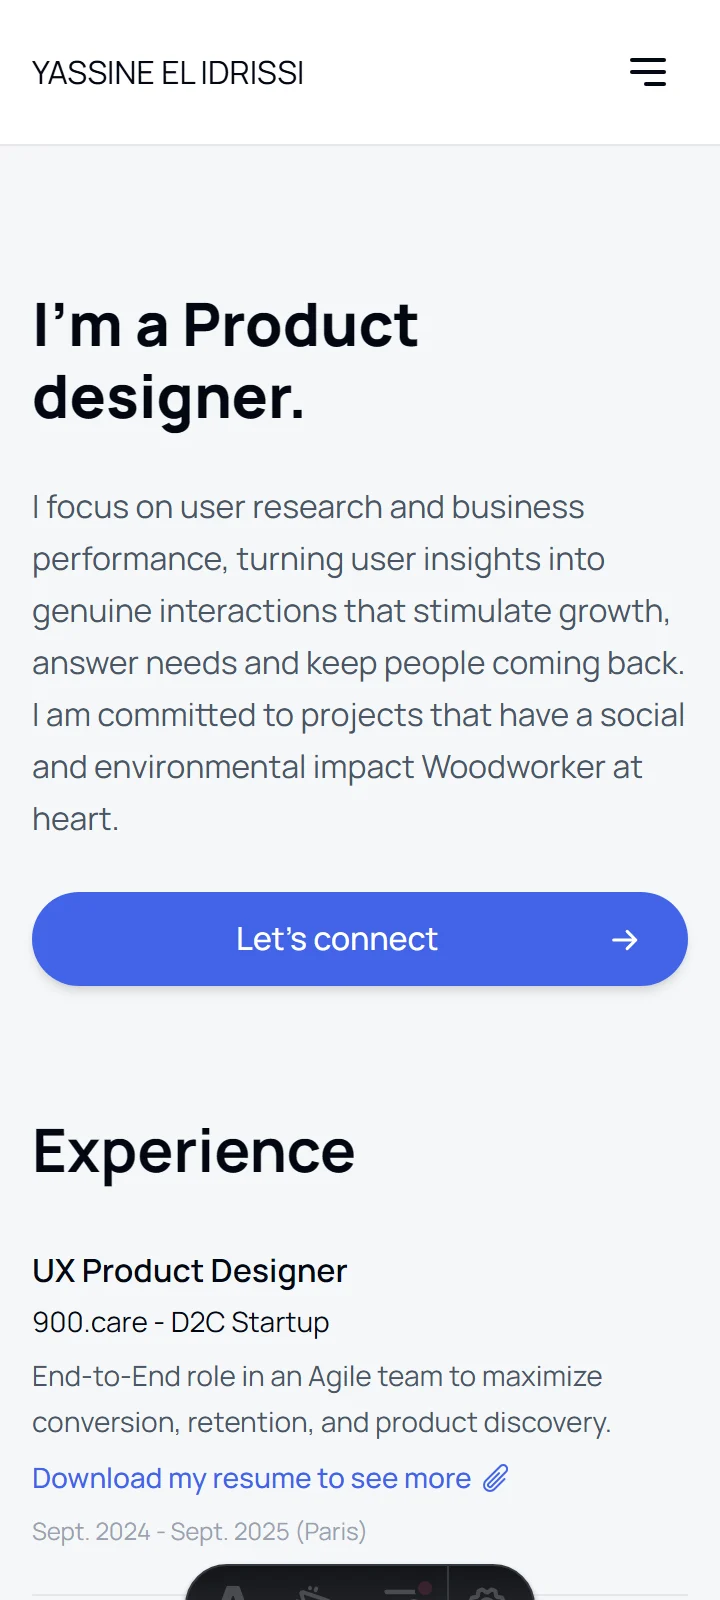
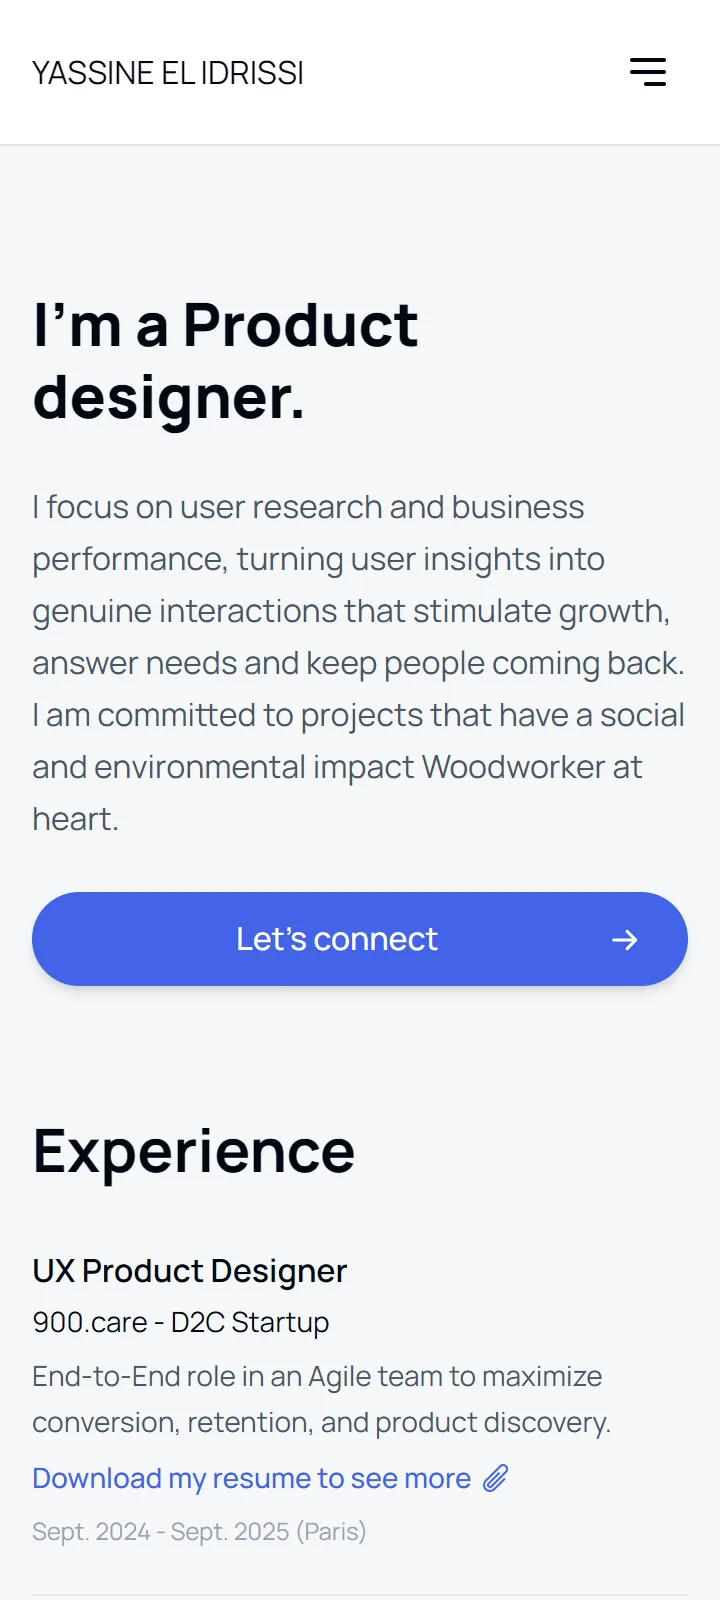
Workflow: captures du site en ligne dans la section hi-fi, captures FR et EN sur desktop, tablette et telephone

Changed region(s): [[0.2444, 0.9688, 0.7333, 1.0]]

diff --git a/docs/handoffs/retouches-design.md b/docs/handoffs/retouches-design.md
@@ -142,3 +142,76 @@ clé devenue inutilisée est retirée.
   (rail, projecteur) et le flou du UI kit au centre du projecteur » peut passer en revue :
   le pied du projecteur a été mesuré en 390 px, le bug qui effaçait le UI kit est corrigé,
   le reste de la galerie est inchangé.
+
+## Session 2 (2026-11-12) : icônes d'onglets, respiration des galeries, captures du site
+
+### Icônes des onglets projet (arrondi)
+
+- `src/styles/tokens.js` : nouveau pas de rayon `lg: "8px"` entre `md` (6 px) et `xl` (12 px).
+- `tailwind.config.mjs` : ce pas est mappé (`lg: tokens.primitives.borderRadius.lg`), donc
+  `rounded-lg` devient un token. Valeur identique au défaut Tailwind déjà utilisé ailleurs
+  (`Navbar.astro`, `AboutLayout.astro`) : aucun changement visuel sur ces usages.
+- `src/components/workflow/ToolLogo.astro` : la tuile d'onglet projet (`fill`, utilisée
+  seulement par `WorkflowProjectTabs`) passe de 6 px à 8 px (`rounded-md` → `rounded-lg`).
+  Les tuiles d'outils (listes, teaser) restent à 6 px : seule la tuile projet change.
+  Tuile mesurée à 24 × 24 px, rayon calculé 8 px sur les trois onglets, EN et FR.
+
+### Respiration autour des galeries d'écrans
+
+Le bloc garde son `gap-lg` (24 px). C'est le rembourrage interne des galeries qui créait le
+vide, surtout au-dessus et en dessous des écrans.
+
+- `WorkflowGallery.astro`, galerie `rail` (wireframes)
+  - `padding-block` : 24 / 32 px (mobile) et 24 / 48 px (desktop) → **8 / 24 px** partout.
+    Le pas de 24 px au-dessus venait de l'ancien sous-titre « Screens », supprimé à la
+    session précédente ; l'écart sous le titre de bloc est maintenant le `gap-lg` seul.
+  - Canevas (`wg-mat`) : bas ramené de 80 px (96 px desktop) à 48 px (64 px desktop), pour
+    qu'il s'arrête toujours au niveau de la légende avec la hauteur réduite.
+  - Mesures desktop : titre → cadre 32 px (48 avant), légende + puce → outils 56 px (80 avant).
+    Mobile : mêmes valeurs.
+- `WorkflowGallery.astro`, galerie `spotlight` (hi-fi)
+  - Hauteur de scène : 448 → 416 px (mobile), 512 → 480 px (desktop). Le facteur d'échelle
+    passe de `3xl × 2` (128 px) à `2xl × 2` (96 px), donc les écrans **gardent leur taille**
+    (320 px de haut mobile, 384 px desktop) et l'espace de canevas au-dessus tombe de 56 à
+    24 px. Bande sous les écrans inchangée (72 px, occupée par la légende et la pagination).
+  - Mesures : titre → écran 48 px (80 avant), écran → légende 8 px, légende → outils 40 px.
+- Aucun contenu de `src/content/projects/**` ni de `src/data/**` modifié.
+
+### Captures du site pour la section « Hi-fi » du projet portfolio
+
+Cinq captures du site en ligne (`yassineelidrissi.com`), faites le 2026-11-12 avec Edge
+headless (CDP), `deviceScaleFactor: 2`, barres de défilement masquées, polices et images
+chargées avant capture. Cadrage = la fenêtre exacte du cadre d'appareil, donc aucun recadrage
+par `object-cover`.
+
+| Écran | Appareil | Langue | Fichier | Taille |
+|---|---|---|---|---|
+| Accueil (bannière) | desktop 1280 × 800 | EN | `portfolio-hifi-home-desktop.webp` | 2560 × 1600 |
+| Cartes d'études de cas (CDC) | desktop 1280 × 800 | FR | `portfolio-hifi-cards-desktop.webp` (nouveau) | 2560 × 1600 |
+| Étude de cas 900.care | tablette 800 × 1280 | EN | `portfolio-hifi-case-tablet.webp` | 1600 × 2560 |
+| À propos | téléphone 360 × 800 | EN | `portfolio-hifi-about-phone.webp` | 720 × 1600 |
+| Contact (pied de page) | téléphone 360 × 800 | FR | `portfolio-hifi-footer-phone.webp` (nouveau) | 720 × 1600 |
+
+- Les trois anciens fichiers sont remplacés, mêmes noms, mêmes dimensions, même appareil :
+  leurs légendes et leurs `alt` existants restent justes (le cadrage a été refait à
+  l'identique, sans barre de défilement visible).
+- `src/content/workflow/step-3.yaml`, bloc `portfolio` / « Hi-fi and design system » : deux
+  écrans ajoutés dans les deux langues (desktop cartes CDC en FR, téléphone contact en FR).
+  **Texte à relire par le propriétaire** : `caption`, `sub` et `alt` des deux nouveaux écrans
+  sont de ma main (« Case-study cards » / « Cartes d'études de cas », « Contact »).
+  Aucun autre texte du fichier n'est touché.
+- Le projecteur garde son échelle : l'écran le plus haut du jeu est la tablette portrait
+  (1280 dp), donc le desktop s'affiche à 384 × 240 px et les téléphones à 108 × 240 px, comme
+  avant. Passer le desktop en 1280 × 800 paysage ne change rien à cette règle.
+
+### Vérifications
+
+- [x] `npm run build` : 15 pages, aucune erreur (images optimisées par Astro)
+- [x] `npm run check` : 0 erreur, 0 avertissement (9 hints préexistants)
+- [x] Galerie hi-fi : 5 écrans et 5 points en EN et FR, légendes `Home / Case-study cards /
+      900.care / About / Contact` et `Accueil / Cartes / 900.care / À propos / Contact`
+- [x] Captures vérifiées avant conversion : aucun débordement horizontal (scrollWidth =
+      clientWidth en 1280, 800 et 360), polices chargées, bannière de consentement absente
+- [x] Rail et projecteur remesurés en 1440 px et 390 px (valeurs ci-dessus)
+- [x] Tuiles d'onglets : rayon 8 px, taille 24 px, dans les deux langues
+
